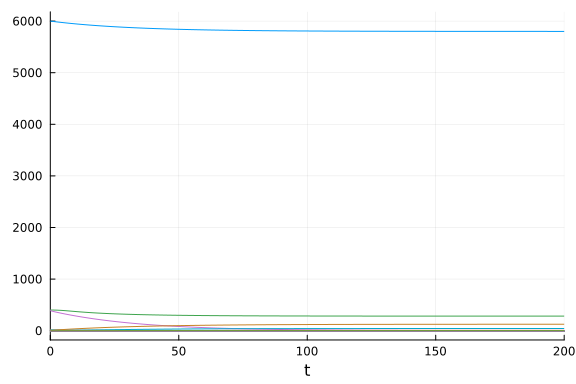
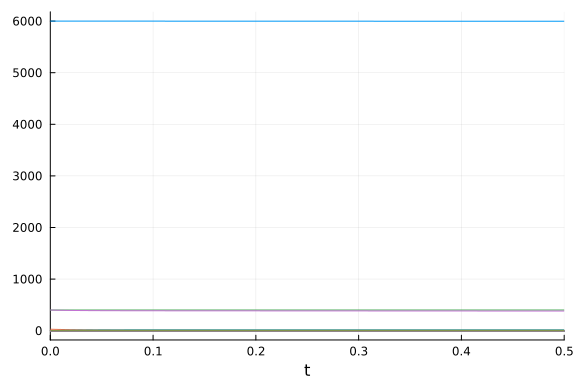
Automatic build\nPublished by build of: https://github.com/SciML/SciMLBenchmarks.jl/commit/f0de0a4782c4a1f77fc2a55ba104b3f571044ecb

diff --git a/markdown/Bio/fceri_gamma2.md b/markdown/Bio/fceri_gamma2.md
@@ -22,7 +22,7 @@ using DiffEqBase, OrdinaryDiffEq, Catalyst, ReactionNetworkImporters,
 
 gr()
 const to = TimerOutput()
-tf       = 200.0
+tf       = 0.5
 
 # generate ModelingToolkit ODEs
 @timeit to "Parse Network" prnbng = loadrxnetwork(BNGNetwork(), joinpath(@__DIR__, "Models/fceri_gamma2.net"))
@@ -42,7 +42,7 @@ Creating species and parameters for evaluating expressions...done
 Parsing and adding reactions...done
 Parsing groups...done
 ODEProblem with uType Vector{Float64} and tType Float64. In-place: true
-timespan: (0.0, 200.0)
+timespan: (0.0, 0.5)
 u0: 3744-element Vector{Float64}:
  6000.0
    28.0
@@ -79,19 +79,19 @@ show(to)
     
                              ───────────────────────   ────────────────────
 ────
-      Tot / % measured:           1.89h / 100.0%           10.1TiB / 100.0%
+      Tot / % measured:           1.66h / 100.0%           10.1TiB / 100.0%
     
 
  Section             ncalls     time    %tot     avg     alloc    %tot     
  avg
  ──────────────────────────────────────────────────────────────────────────
 ────
- ODEProb SparseJac        1    1.89h   99.8%   1.89h   10.0TiB   99.9%  10.
-0TiB
- Create ODESys            1    9.59s    0.1%   9.59s   5.68GiB    0.1%  5.6
-8GiB
- Parse Network            1    4.14s    0.1%   4.14s   1.67GiB    0.0%  1.6
-7GiB
+ ODEProb SparseJac        1    1.65h   99.5%   1.65h   10.1TiB   99.9%  10.
+1TiB
+ Create ODESys            1    17.3s    0.3%   17.3s   7.52GiB    0.1%  7.5
+2GiB
+ Parse Network            1    14.6s    0.2%   14.6s   3.20GiB    0.0%  3.2
+0GiB
  ──────────────────────────────────────────────────────────────────────────
 ────
 ```
@@ -137,7 +137,7 @@ given how fast evaluating `f` is:
 ```
 
 ```
-84.879 μs (43 allocations: 1.72 KiB)
+85.039 μs (43 allocations: 1.72 KiB)
 ```
 
 
@@ -166,8 +166,8 @@ test_sol  = TestSolution(sol)
 ```
 
 ```
-9.078978 seconds (2.81 M allocations: 900.674 MiB, 3.01% gc time, 7.62% c
-ompilation time)
+1.111946 seconds (946.10 k allocations: 152.592 MiB, 60.27% compilation t
+ime)
 retcode: Success
 Interpolation: 3rd order Hermite
 t: nothing
@@ -208,6 +208,35 @@ plot(wp)
 ![](figures/fceri_gamma2_9_1.png)
 
 
+
+## Non-Stiff Work-Precision Diagrams
+
+```julia
+abstols = 1.0 ./ 10.0 .^ (6:10)
+reltols = 1.0 ./ 10.0 .^ (6:10);
+setups = [
+          Dict(:alg=>lsoda()),
+          Dict(:alg=>CVODE_Adams()),
+          Dict(:alg=>Tsit5()),
+          Dict(:alg=>BS5()),
+          Dict(:alg=>VCABM()),
+          Dict(:alg=>Vern6()),
+          Dict(:alg=>Vern7()),
+          Dict(:alg=>Vern8()),
+          Dict(:alg=>Vern9()),
+          ];
+```
+
+
+```julia
+wp = WorkPrecisionSet(sparsejacprob,abstols,reltols,setups;error_estimate=:l2,
+                      saveat=tf/10000.,appxsol=test_sol,maxiters=Int(1e5),numruns=200)
+plot(wp)
+```
+
+![](figures/fceri_gamma2_11_1.png)
+
+
 ## Appendix
 
 These benchmarks are a part of the SciMLBenchmarks.jl repository, found at: [https://github.com/SciML/SciMLBenchmarks.jl](https://github.com/SciML/SciMLBenchmarks.jl). For more information on high-performance scientific machine learning, check out the SciML Open Source Software Organization [https://sciml.ai](https://sciml.ai).
@@ -246,14 +275,14 @@ Status `/cache/build/exclusive-amdci3-0/julialang/scimlbenchmarks-dot-jl/benchma
   [479239e8] Catalyst v12.3.0
 ⌃ [2b5f629d] DiffEqBase v6.105.0
   [f3b72e0c] DiffEqDevTools v2.32.0
-  [033835bb] JLD2 v0.4.24
+⌃ [033835bb] JLD2 v0.4.24
   [7f56f5a3] LSODA v0.7.0
 ⌃ [7ed4a6bd] LinearSolve v1.26.0
-  [961ee093] ModelingToolkit v8.26.1
+⌃ [961ee093] ModelingToolkit v8.26.1
   [54ca160b] ODEInterface v0.5.0
   [09606e27] ODEInterfaceDiffEq v3.11.0
   [1dea7af3] OrdinaryDiffEq v6.28.0
-  [91a5bcdd] Plots v1.35.2
+⌃ [91a5bcdd] Plots v1.35.2
   [b4db0fb7] ReactionNetworkImporters v0.13.4
   [31c91b34] SciMLBenchmarks v0.1.1
   [c3572dad] Sundials v4.10.1
@@ -363,7 +392,7 @@ Status `/cache/build/exclusive-amdci3-0/julialang/scimlbenchmarks-dot-jl/benchma
   [92d709cd] IrrationalConstants v0.1.1
   [42fd0dbc] IterativeSolvers v0.9.2
   [82899510] IteratorInterfaceExtensions v1.0.0
-  [033835bb] JLD2 v0.4.24
+⌃ [033835bb] JLD2 v0.4.24
   [1019f520] JLFzf v0.1.5
   [692b3bcd] JLLWrappers v1.4.1
   [682c06a0] JSON v0.21.3
@@ -389,11 +418,11 @@ Status `/cache/build/exclusive-amdci3-0/julialang/scimlbenchmarks-dot-jl/benchma
   [e9d8d322] Metatheory v1.3.5
 ⌃ [128add7d] MicroCollections v0.1.2
   [e1d29d7a] Missings v1.0.2
-  [961ee093] ModelingToolkit v8.26.1
+⌃ [961ee093] ModelingToolkit v8.26.1
   [46d2c3a1] MuladdMacro v0.2.2
   [102ac46a] MultivariatePolynomials v0.4.6
   [ffc61752] Mustache v1.0.14
-  [d8a4904e] MutableArithmetics v1.0.4
+⌃ [d8a4904e] MutableArithmetics v1.0.4
   [d41bc354] NLSolversBase v7.8.2
   [2774e3e8] NLsolve v4.5.1
   [77ba4419] NaNMath v1.0.1
@@ -411,7 +440,7 @@ Status `/cache/build/exclusive-amdci3-0/julialang/scimlbenchmarks-dot-jl/benchma
   [b98c9c47] Pipe v1.3.0
   [ccf2f8ad] PlotThemes v3.0.0
   [995b91a9] PlotUtils v1.3.1
-  [91a5bcdd] Plots v1.35.2
+⌃ [91a5bcdd] Plots v1.35.2
   [e409e4f3] PoissonRandom v0.4.1
 ⌃ [f517fe37] Polyester v0.6.15
   [1d0040c9] PolyesterWeave v0.1.10
